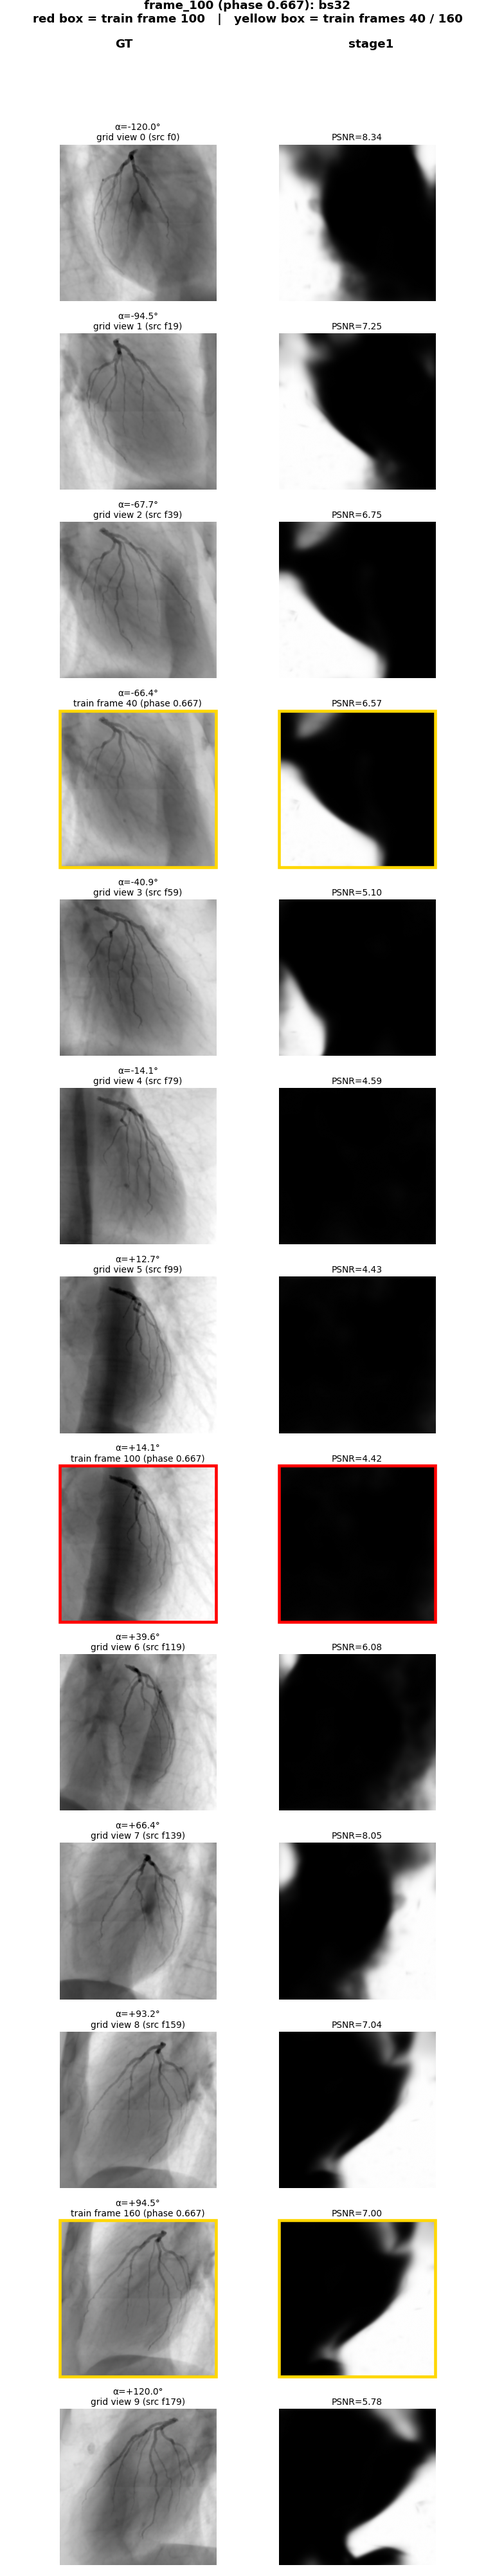
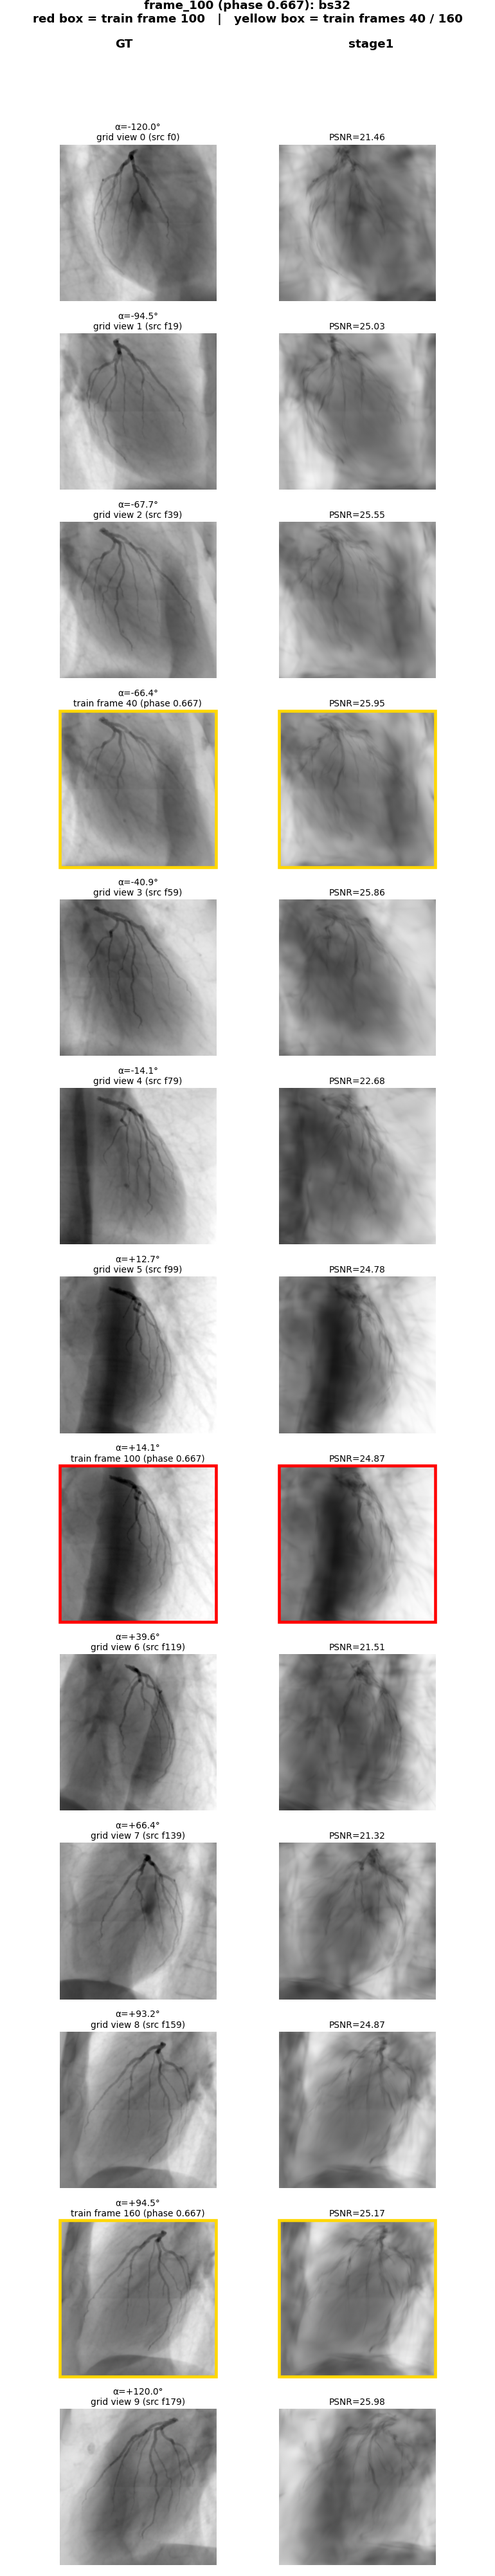
exp(bspline-frangi): SSIM修复后重跑8个bspline±frangi——不再崩溃但bs16最优/bs32拐点/frangi效果不一致

Changed region(s): [[0.561, 0.0312, 0.9039, 0.999]]

diff --git a/dev_grid_views/bspline-frangi/readme.md b/dev_grid_views/bspline-frangi/readme.md
@@ -61,29 +61,32 @@
 
 ---
 
-## sweep：bspline 控制点数量（16/32/64/128）× Frangi 加权
+## sweep：bspline 控制点数量（16/32/64/128）× Frangi 加权（SSIM 修复后重跑）
 
-### 伪影指标（grid 10 视角均值）
+### 伪影指标（frame100 13 视角均值：10 grid + 3 train）
 | job | ghost↓ | edge_contrast↑ | v_ssim↑ | v_psnr↑ | 全图 psnr↑ |
 |---|---|---|---|---|---|
-| spike | 0.054 | 0.778 | 0.856 | 28.53 | 30.35 |
-| bs16 | 0.009 | 0.171 | 0.064 | 8.30 | 5.71 |
-| bs32 | 0.012 | 0.173 | 0.082 | 8.77 | 6.33 |
-| bs64 | 0.017 | 0.133 | 0.078 | 8.35 | 5.44 |
-| bs128 | 0.022 | 0.177 | 0.088 | 8.33 | 5.91 |
-| bs16-f | 0.015 | 0.162 | 0.244 | 6.46 | 5.86 |
-| bs32-f | 0.011 | 0.088 | 0.051 | 8.26 | 5.57 |
-| bs64-f | 0.010 | 0.157 | 0.046 | 8.24 | 5.86 |
-| bs128-f | 0.012 | 0.097 | 0.039 | 8.12 | 5.63 |
-| frangi-only | ❌ 训练发散（hashgrid xyz_var 爆炸 8740 → OOM） | | | | |
+| spike | 0.051 | 0.816 | 0.881 | 30.55 | 32.96 |
+| frangi-only | 0.050 | 0.843 | 0.896 | 30.85 | 32.58 |
+| bs16 | 0.054 | 0.565 | 0.484 | 21.31 | 25.53 |
+| bs32 | 0.101 | 0.391 | 0.515 | 20.67 | 24.21 |
+| bs64 | 0.100 | 0.466 | 0.521 | 21.49 | 23.95 |
+| bs128 | 0.116 | 0.475 | 0.537 | 22.52 | 24.99 |
+| bs16-f | 0.059 | 0.547 | 0.470 | 19.99 | 25.05 |
+| bs32-f | 0.085 | 0.452 | 0.510 | 20.13 | 24.07 |
+| bs64-f | 0.106 | 0.453 | 0.532 | 21.59 | 24.69 |
+| bs128-f | 0.106 | 0.535 | 0.562 | 23.26 | 24.94 |
 
-### 结论
-- **bspline 形变场（16~128 控制点）在 lr=5e-3 下全部失败**（v_psnr ~8.3，全图 psnr 5.4~6.3，
-  远差于 spike 28.5/30.35）；ghost_score 极低是"血管没重建"的假象。
-- **控制点数量无关**：16→128 结果几乎不变（xyz_var 0.05~0.12，位移仍过小）。
-- **Frangi 加权无帮助**（bs*-f 普遍 ≤ 对应 bs*）。
-- **frangi-only（hashgrid）曾被认为发散**，但见下方「根因排查」——是标准 SSIM 的
-  autocast 数值 bug 导致，与 Frangi 加权无关。
+### 结论（重跑后，对比旧结论的修正）
+- **SSIM 修复后 bspline 不再崩溃**：全图 psnr 从 5.4~6.3 → 23.9~25.5，v_psnr 从 ~8 → 20~23。
+  旧 sweep 的"全部失败"同样是 SSIM autocast bug 的假象。
+- **但仍远低于 hashgrid 基线**：v_psnr 21~23 vs 30.5、v_ssim 0.47~0.56 vs 0.88、
+  edge_contrast 0.39~0.57 vs 0.82。bspline 低频场表达冠脉精细非刚体运动能力不足是真实瓶颈。
+- **控制点数量：bs16 最优**。bs32 是明显拐点（ghost 0.054→0.101 翻倍、ec 0.565→0.391、
+  esharp 0.445→0.316 大跌）；bs64/128 略有回升（v_psnr/v_ssim 微升）但仍不如 bs16。
+- **Frangi 加权效果不一致**：bs16 反作用（v_psnr 21.31→19.99、v_ssim 0.484→0.470）；
+  bs32 中性；bs64/128 略正作用（v_ssim/ec 微升）。但都改变不了 bspline 远差于 hashgrid 的结论。
+- 用户观察确认：bs32 往上效果变差（拐点在 bs32），bs16 处 frangi 起反作用。
 
 ---
 
@@ -132,7 +135,9 @@ edge_contrast/sharpness 均改善，重影略降，代价是全图 PSNR 略降 0
 ---
 
 ## 最终结论（bspline-frangi 实验整体）
-- **bspline 低频形变场（16~128 控制点）在当前数据上不可行**：对 lr 极敏感，
-  低频场难以表达冠脉精细非刚体运动，所有控制点数量 + Frangi 组合均远差于 hashgrid。
-- **Frangi 加权对 hashgrid 轻微正面**（见上表），但不是解决重影的关键手段。
+- **bspline 低频形变场（16~128 控制点）在当前数据上质量仍远低于 hashgrid**：
+  修复 SSIM bug 后不再崩溃（psnr ~25），但低频场难以表达冠脉精细非刚体运动
+  （v_psnr 21~23 vs hashgrid 30.5），所有控制点数量 + Frangi 组合均不达 baseline。
+- **控制点数量 bs16 最优，bs32 为拐点**；Frangi 加权对 bspline 效果不一致
+  （bs16 反作用、bs64/128 略正），对 hashgrid 轻微正面，但都不是解决重影的关键手段。
 - 重影根因仍是单视角稀疏角运动欠定，需转向多视角/flow 监督或 P3 循环一致性。
